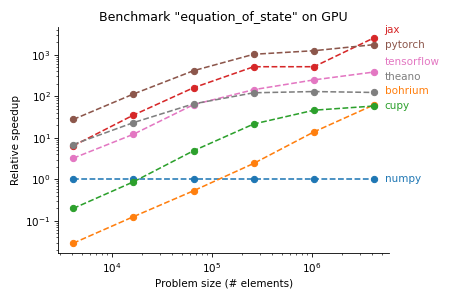
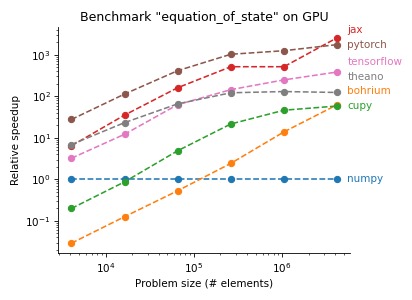
downscale plots more

diff --git a/plot.py b/plot.py
@@ -35,7 +35,7 @@ BACKEND_COLORS = {
 
 def plot_results(records, benchmark, platform, outfile, plot_delta=False):
     import matplotlib.pyplot as plt
-    fig, ax = plt.subplots(1, 1, figsize=(6, 4), dpi=75)
+    fig, ax = plt.subplots(1, 1, figsize=(5.5, 4), dpi=75)
 
     this_record = records[(benchmark, platform)]
     last_coords = {}
